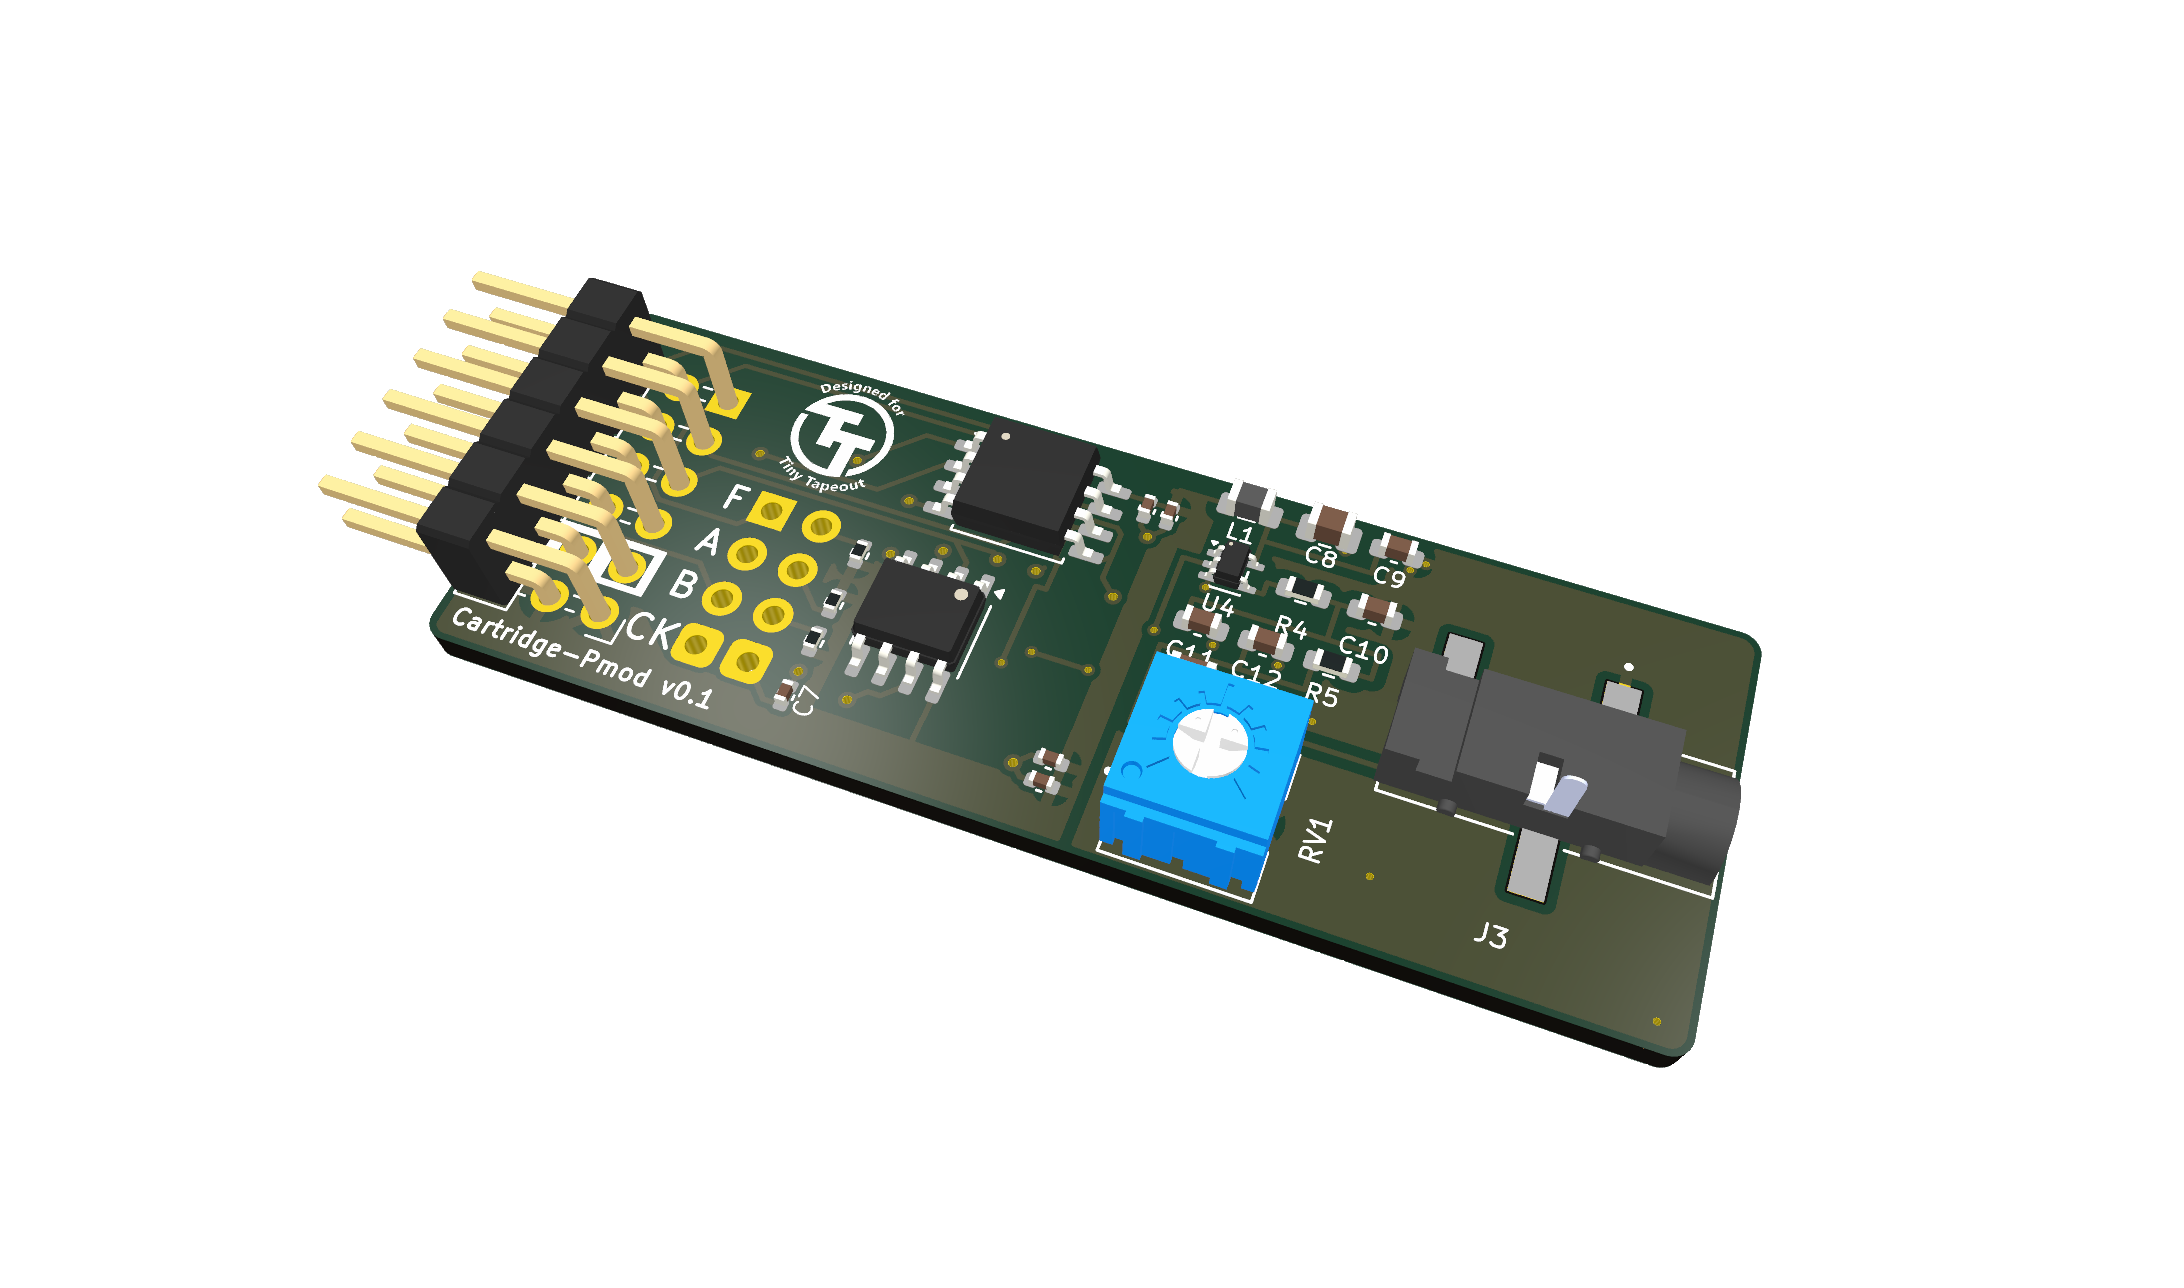
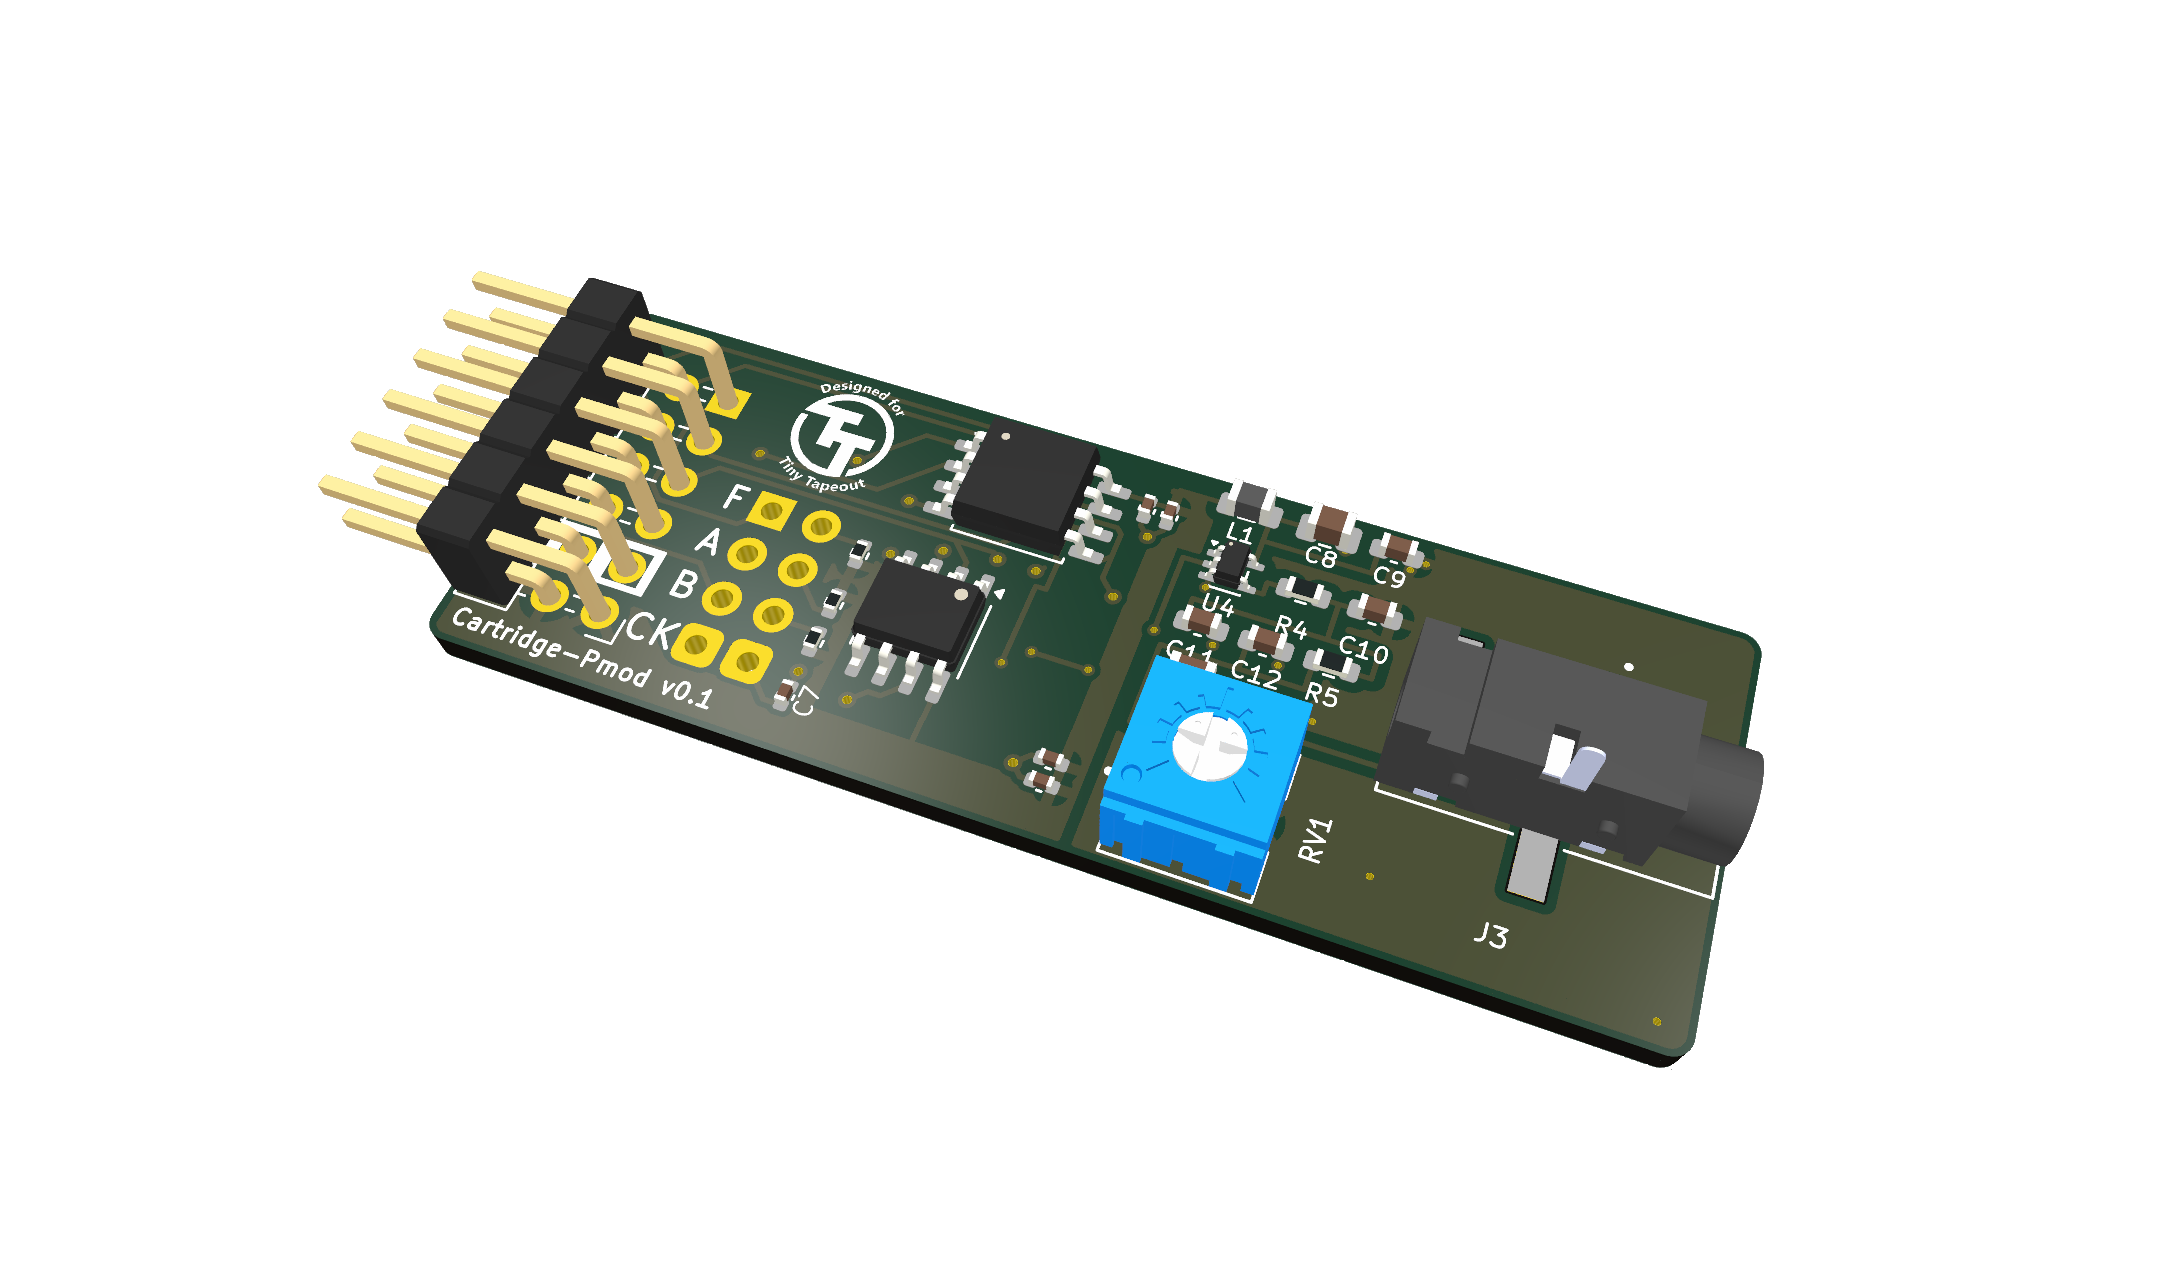
J3 jack model Z-offset: body was sunk through the board
Raised 2.5mm to sit on its mounting face; RV1 settled 0.3mm to flush.
Final calibrated transforms are now the defaults in tools/model_rebuild.py
(a single-part CLI override had silently reset J3 to stale defaults).

Claude-Session: https://claude.ai/code/session_01Xe5NzHvb72amxJFhr7WjZC

Changed region(s): [[0.6227, 0.4658, 0.8095, 0.6832], [0.4982, 0.4969, 0.5916, 0.6522], [0.5604, 0.6522, 0.5916, 0.6832]]

diff --git a/tools/model_rebuild.py b/tools/model_rebuild.py
@@ -8,9 +8,9 @@ EXACT = {
     "U1": D + "/Package_SO.3dshapes/SOIC-8_5.3x5.3mm_P1.27mm.step",
     "U2": D + "/Package_SO.3dshapes/SOIC-8_3.9x4.9mm_P1.27mm.step",
 }
-TUNE = {  # ref: (rx, ry, rz, ox, oy, oz)
-    "RV1": (-90, 0, 0, 0, 0, 0),
-    "J3":  (0, 0, 180, 0, 0, 0),
+TUNE = {  # ref: (rx, ry, rz, ox, oy, oz)  -- FINAL calibrated values
+    "RV1": (-90, 0, 0, 0, 0, -0.3),
+    "J3":  (0, 0, 180, 0, 2.6, 2.5),
 }
 import sys
 if len(sys.argv) > 1: